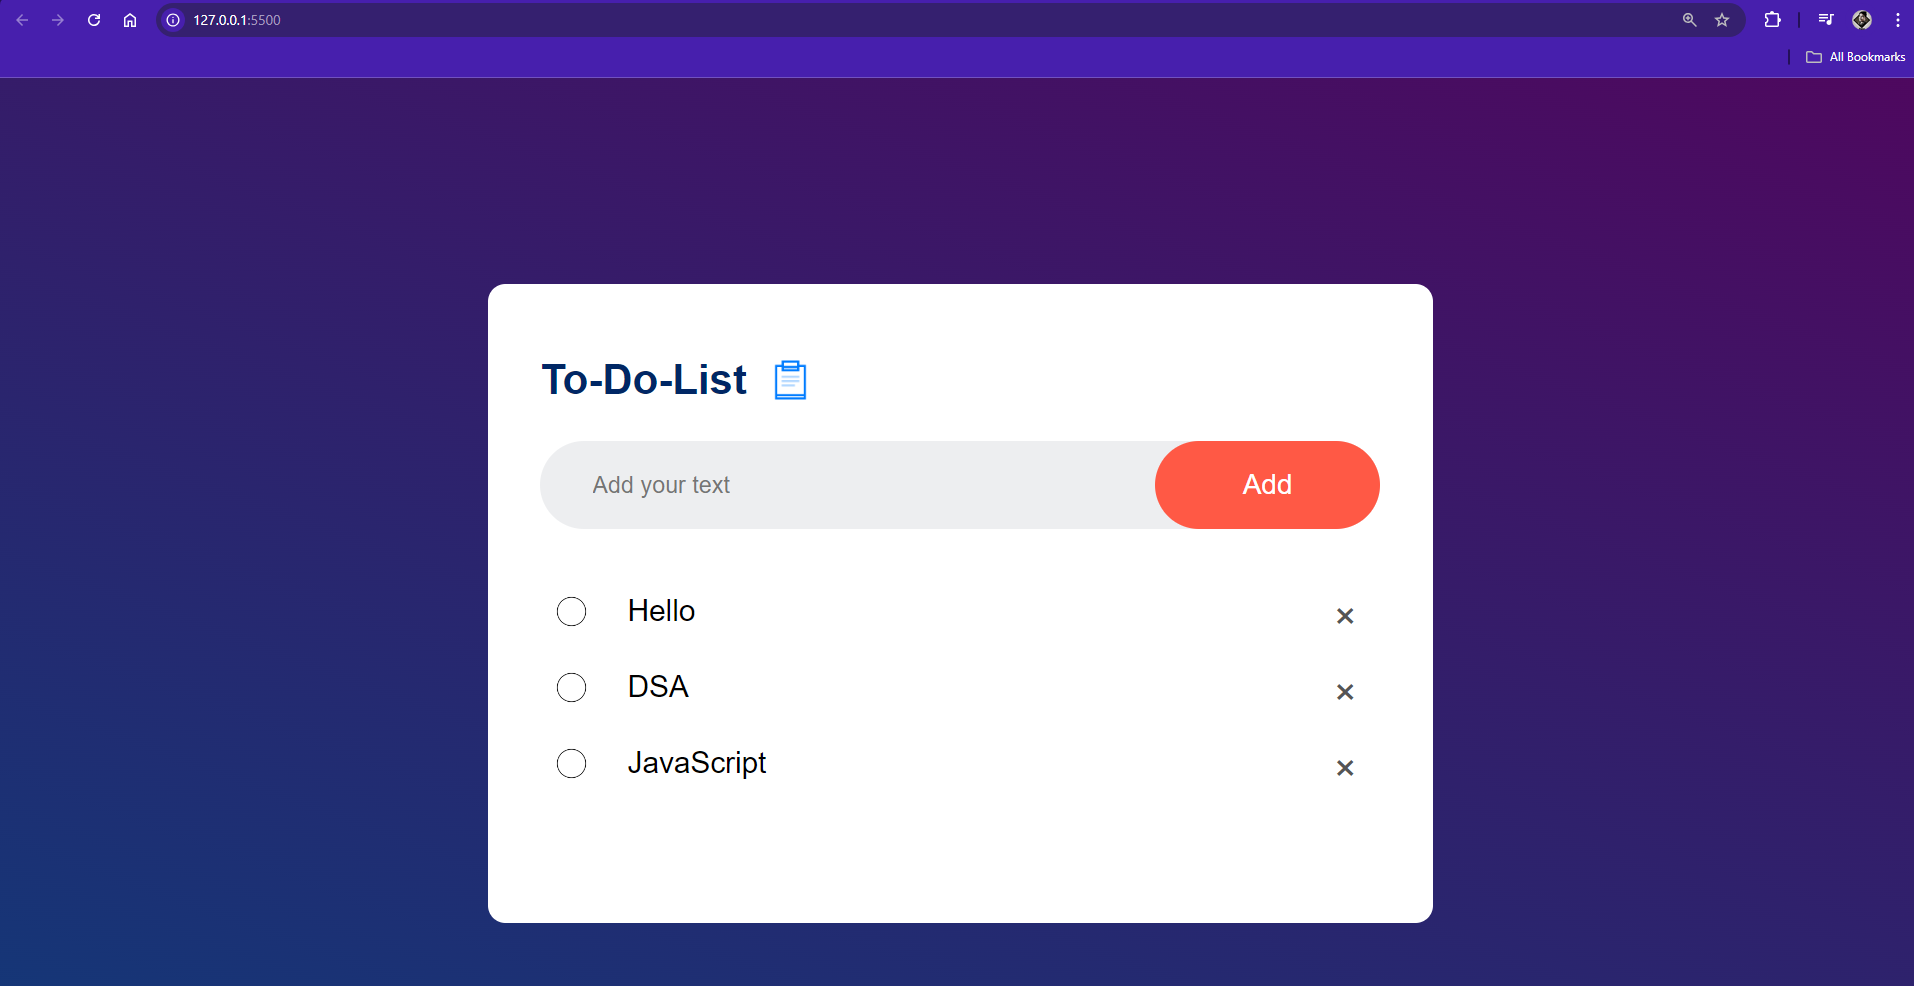
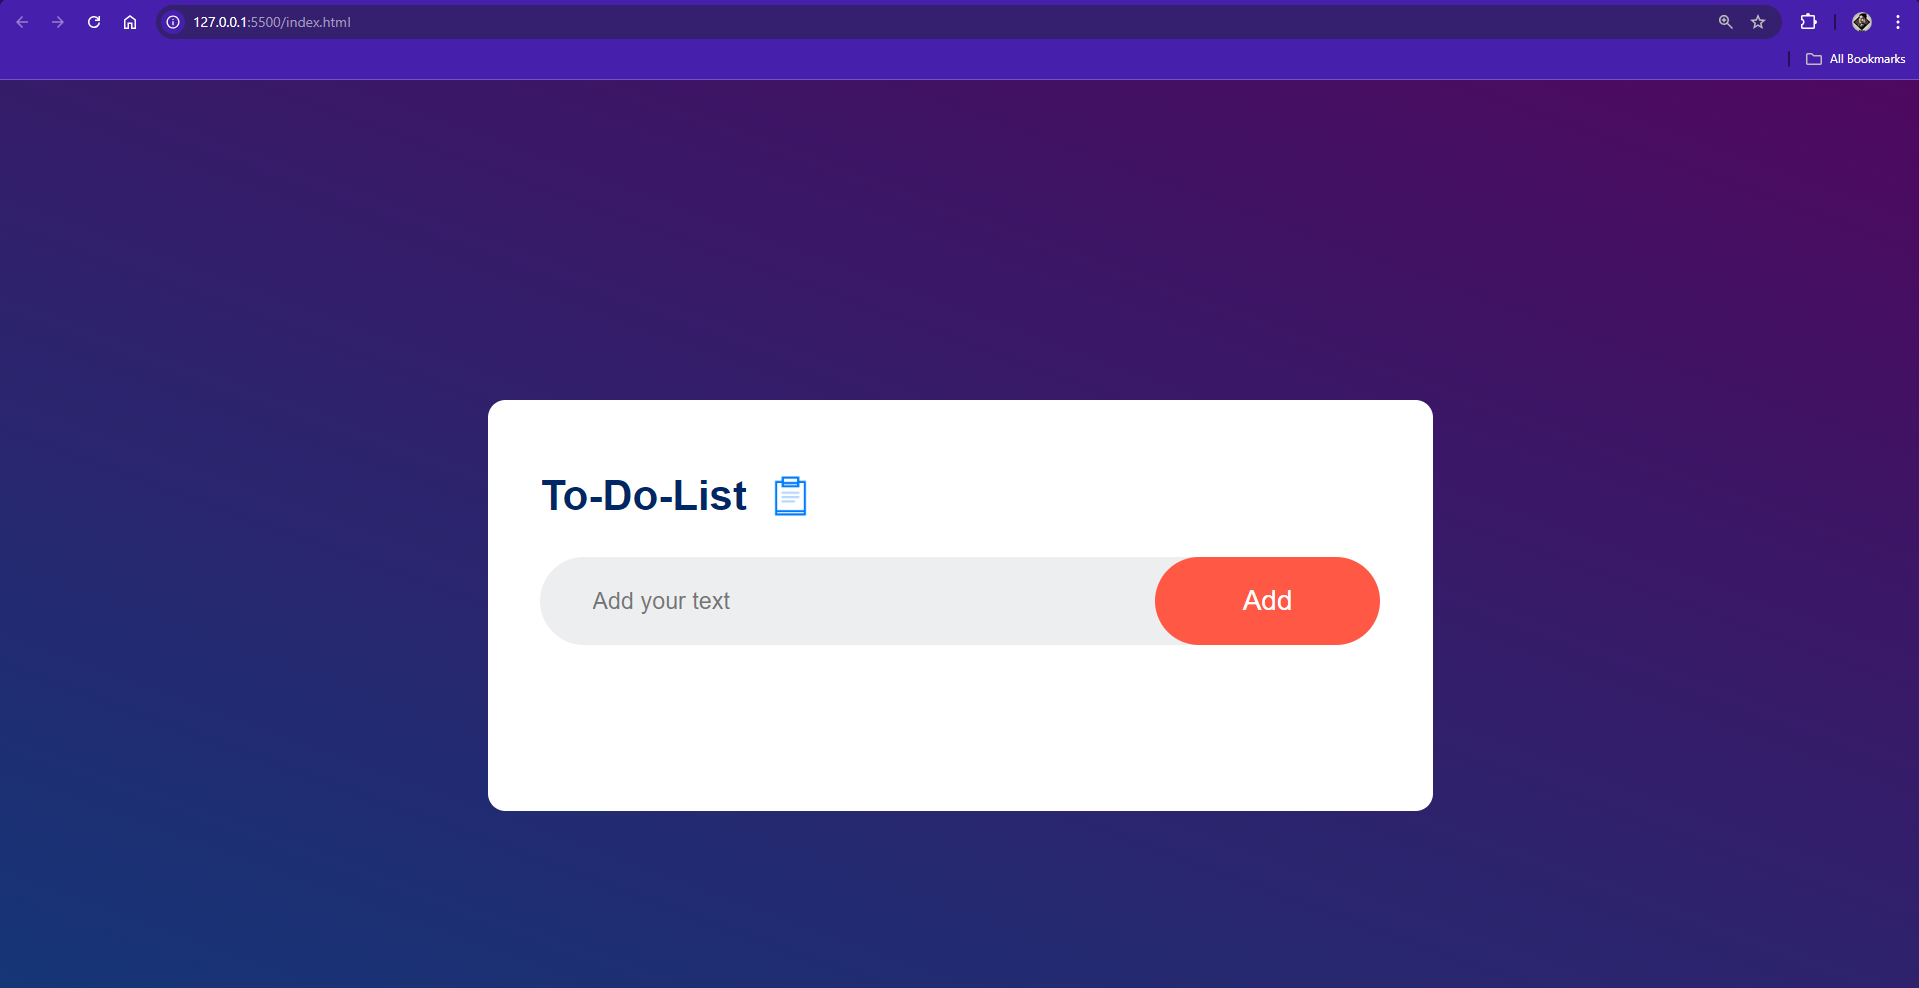
ok

diff --git a/README.md b/README.md
@@ -10,7 +10,7 @@ Persistent Data: Tasks are saved in localStorage, so your list is maintained eve
 Here are some screenshots showcasing the To-Do List app in action:
 ## 📷 🎨 Preview
 1. **Initial Screen** 
-   ![Main Interface](./Screenshots/3.png)
+   ![Main Interface](./Screenshots/1.png)
 
 2. **Task Added** 
    ![Creating a Tier List](./Screenshots/2.png)
